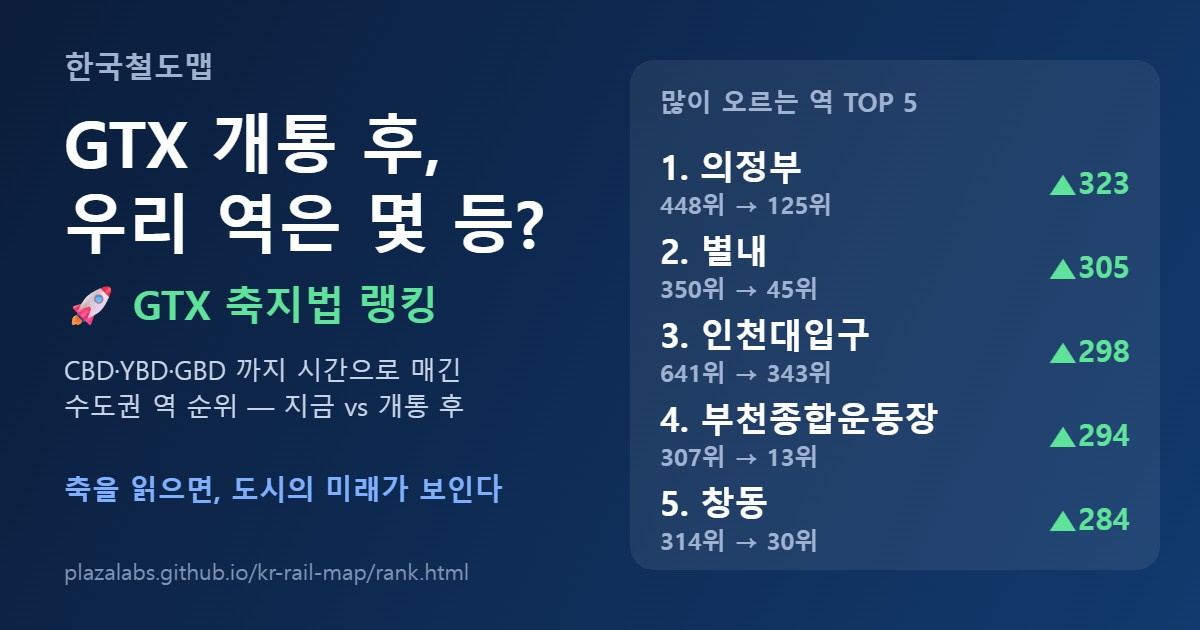
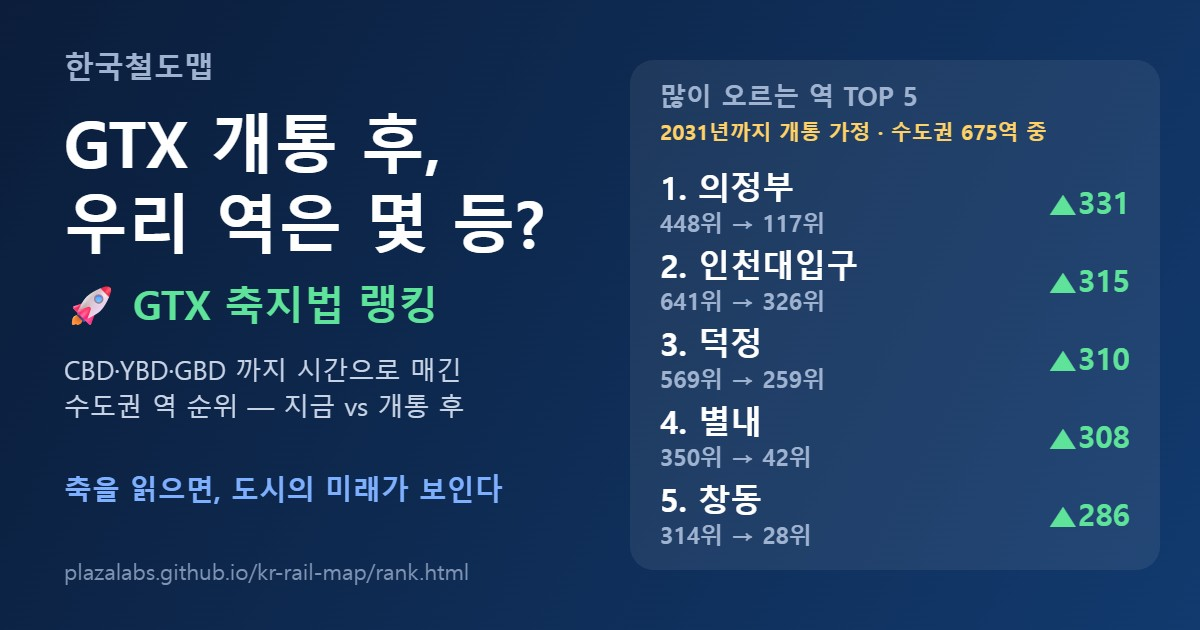
feat(87): 랭킹 미리보기 그림 og-rank.jpg 를 홈·랭킹 기준(2031년까지)으로 — 의정부 448→117위, 그림에 기준 글자
build_og_rank.js 가 RankTable.defaultYear(rank.json default_year)·rank-top.json 과 같은 거르기로 TOP 5 를 굽고
'2031년까지 개통 가정 · 수도권 675역 중' 을 제목 아래에. 그림에 쓴 값은 data/og-rank.json(그림 sha1 포함).
R-87: 기준 연도 = default_year, 그림 숫자 = rank-top.json = 홈 카드 (먼저 실패 확인).

Claude-Session: https://claude.ai/code/session_0191yEh2uapvYzTcVwrNJHWz

diff --git a/CHANGELOG.md b/CHANGELOG.md
@@ -4,6 +4,7 @@
 코드 안에 날짜·피드백 번호 주석을 다는 대신 여기에 적는다.
 
 ## 2026-11-21
+- 2026-11-21 · v313 · 숙제 87 · **랭킹 링크 미리보기 그림 숫자 기준 = 홈·랭킹** — image/og-rank.jpg 가 '전체 개통' 기준(의정부 448→125위, TOP 5 의정부·별내·인천대입구·부천종합운동장·창동)이었고 홈 카드·랭킹은 '2031년까지'(448→117위). data/build_og_rank.js 가 RankTable.defaultYear(rank.json default_year) 기준·rank-top.json 과 같은 거르기(신규 역 빼고 오른 역만)로 TOP 5 를 굽고, 제목 바로 아래에 '2031년까지 개통 가정 · 수도권 675역 중'. 새 TOP 5: 의정부 448→117 · 인천대입구 641→326 · 덕정 569→259 · 별내 350→42 · 창동 314→28. 그림에 쓴 값은 data/og-rank.json 에 같이 적음(그림 sha1 포함). require 만으로는 크롬을 띄우지 않게 ogData 를 내보냄. 회귀 R-87(기준 연도 = default_year, og-rank.json = 지금 rank.json 으로 다시 계산한 값, 그림 sha1 일치, 앞 3곳 = rank-top.json = 홈 카드, 먼저 실패 확인).
 - 2026-11-21 · v313 · 숙제 86 (회장 결정 11-21) · **노선 글자 한 규칙 'LineStatus.label'** — 개통 전 노선은 '이름 (상태 말 · 연도)', 연도 없으면 '이름 (상태 말)', 공사 중도 같은 꼴(회장님 답: 지도 규칙 74로 통일). 연도는 lines.geojson open_year(rank.json lines.y). 다섯 곳이 이 함수 하나: 지도 미개통 라벨(source 'lines' 속성 label = mapLineLabel, GTX-D 는 뒤에 ' 갈래 여러 안' — 회장님 답: 꼬리 유지), rank.html 역 카드(칩 글자, 따로 쓰던 연도 'GTX-D 2035년'·'시기 미정' 뺌), rank.html 공유 그림, 앱 공유 카드, 길찾기 비교 카드('(계획 · 2035년)' → '(계획 · 2035)'). 몇분컷 lineText 도 같은 함수. 고치기 전: 지도 'GTX-D 계획 · 2035' / 카드 'GTX-D 2035년' / 공유 그림 'GTX-D (계획)' / 길찾기 'GTX-D (계획 · 2035년)'. 회귀 R-86(데이터: 수서 'GTX-D (계획 · 2035)'·구리 'GTX-G (계획)'·의정부 'GTX-C (공사 중 · 2031)' 다섯 곳 같음 · e2e: rank.html 카드 = 공유 그림, 먼저 실패 확인). R-66·74·76·77 과 e2e unopened·rank·task-life·commute-card 기대값을 새 규칙으로.
 - 2026-11-21 · v312 · 숙제 85 (회장 결정 11-21) · **화면 글자 '떡상' → '축지법'** — 떡상 랭킹 → 축지법 랭킹(rank.html 제목·og·JSON-LD·머리 메뉴, data·board 머리 메뉴, 404 'GTX 축지법 랭킹', 역 상세 '축지법 랭킹에서 보기'·안내 글, 빠른 실행 힌트), 떡상 패널 → 축지법 패널(제목 줄·접근성 이름 'GTX 축지법 랭킹'·'축지법 패널 닫기'·불러오기 실패 글), data.html '축지법 순위'(build_asof.js·plan_status.js 에서 다시 만듦)·통계 안내 '축지법 패널', og 그림 image/og-rank.jpg '🚀 GTX 축지법 랭킹'(다시 구움). 단계 이름 '떡상' → '축지법급' 은 RankTable.TIERS 한 곳에서만: 축지법 패널 범례·지도 '개통 효과 지도' 범례(index.html)·rank.html '숫자 읽는 법'이 손으로 적던 등급 이름 5개를 `data-tier-label` + RankTable.fillTierLabels 로 TIERS 에서 읽음. 카드 공통 표기('접근성 크게 개선' 등)·금지어 목록의 '떡상'·코드 이름(rocket·rocket-panel.js 등)·umami 이벤트('떡상 패널'·링크 복사 곳 '떡상')는 그대로. 순위 숫자 그대로(rank.json·rank-top.json·rank-station.json 바이트 같음). 빠른 실행 검색어에 '축지법' 추가('떡상'으로 찾아도 계속 나옴, 화면에는 안 보임). 회귀 R-85(rank·data·board·404·index 의 보이는 글자·aria-label·title 에 '떡상' 0 — 패널·지도 범례·역 상세·빠른 실행 열어서, 축지법 패널 TOP 10 = rank.html TOP 10 = 홈 카드, 먼저 실패 확인). 잠긴 E-03 의 '떡상 패널 닫기' 줄은 scratch/locked-test-proposals/E-03-chukjibeop.md 에 제안.
 - 2026-11-21 · v311 · 숙제 84 (회장 결정 11-21) · **GTX 입구 → 몇분컷 + 큰 숫자 한 줄** — gtx.html 제목·og:title·og:image:alt·twitter:title·화면 제목에서 'GTX 입구'와 'GTX' 글자를 뺌('몇분컷 | 한국철도맵', og:title '개통 후 우리 역에서 업무지구까지 몇 분컷? | 몇분컷', og:site_name 은 한국철도맵 그대로). 큰 숫자를 '강남까지 지금 59분 → 개통 후 19분' 한 줄에서 두 줄로: 큰 줄 '강남 19분컷', 작은 줄 '지금 59분 · GBD 강남(…) · 2031년까지 개통 가정'. 새로 생김은 '지금은 철도로 못 감 · …', 같음은 큰 줄 '여의도 22분'(오류동, 컷 없음) + '개통 후에도 같음 · …'. 큰 줄은 한 줄 고정, 넘치면 글자를 줄임(줄바꿈 안 함). 공유 그림 같은 두 줄, 이름 줄 '몇분컷 · 한국철도맵 · …/gtx.html', 저장 파일 이름 '몇분컷_역.png'. og 그림 image/og-gtx.jpg 다시 구움. data.html 절 이름·링크 글자 '몇분컷'. 파일 이름(gtx.html·gtx-card.json·gtx-page.js)·umami 이벤트('GTX 입구 검색'·card-gtx)는 그대로. 회귀 R-84(e2e 7 · 데이터 1, 먼저 실패 확인), R-81 큰 줄 기대를 새 글자로.

diff --git a/docs/TODO.md b/docs/TODO.md
@@ -92,7 +92,7 @@
 - [x] 84. (지시서 블록 G 11-21, 회장 결정 `결정_앱이름_20261121.md` 추가 결정) GTX 입구 → 몇분컷. gtx.html 제목·og 에 'GTX' 없음, 공유 그림 이름 줄 '몇분컷 · 한국철도맵', 큰 숫자 '{업무지구} N분컷'(같음은 '컷' 없음) + 작은 줄 '지금 N분 · …', 휴대폰에서 큰 줄 한 줄 고정
 - [x] 85. (지시서 블록 G 11-21, 회장 결정) 화면 글자 '떡상' → '축지법' (랭킹·TOP 10·지도·패널), 단계 이름 '떡상' → '축지법급'. 코드 이름·파일 이름·umami 이벤트·금지어 목록은 그대로
 - [x] 86. (회장 결정 11-21, 블록 F 질문 ② — 블록 G 에 같이) 계획 노선 연도 표기를 지도 규칙(74)으로 통일: '이름 (상태 말 · 연도)', 연도 null 이면 '이름 (상태 말)', 공사 중은 '이름 연도'. 연도는 open_year(rank.json lines.y). rank.html 카드(rank-page.js nl-yr 'GTX-D 2035년')·공유 그림·앱 공유 카드(station-share.js)·길찾기 비교 카드(route-compare.js lineStatusLabel '(계획 · 2035년)') 모두 LineStatus.label 하나로. 지금: 지도 'GTX-D 계획 · 2035' / rank.html 카드 'GTX-D 2035년' / 공유 그림 'GTX-D (계획)' / 길찾기 비교 'GTX-D (계획 · 2035년)'
-- [ ] 87. (회장 결정 11-21, 블록 G 보고에서) 랭킹 링크 미리보기 그림 image/og-rank.jpg 숫자 기준 맞추기 — 지금 '전체 개통'(의정부 448→125위), 홈·랭킹은 '2031년까지'(448→117위). build_og_rank.js 가 기본 기준(rank.json default_year)으로 굽고 그림에 '2031년까지 개통 가정'. 시험: 그림 숫자 = rank-top.json = 홈 카드, 기준 연도 ≠ default_year 면 실패
+- [x] 87. (회장 결정 11-21, 블록 G 보고에서) 랭킹 링크 미리보기 그림 image/og-rank.jpg 숫자 기준 맞추기 — 지금 '전체 개통'(의정부 448→125위), 홈·랭킹은 '2031년까지'(448→117위). build_og_rank.js 가 기본 기준(rank.json default_year)으로 굽고 그림에 '2031년까지 개통 가정'. 시험: 그림 숫자 = rank-top.json = 홈 카드, 기준 연도 ≠ default_year 면 실패
 
 ## 4단계: 미래 노선 정리
 - [ ] 23. 공사 중인데 빠진 노선 확인 후 추가 (신안산선, 월곶판교선, 인덕원동탄선, 위례신사선, 대장홍대선). 먼저 실제로 공사 중인지 확인
